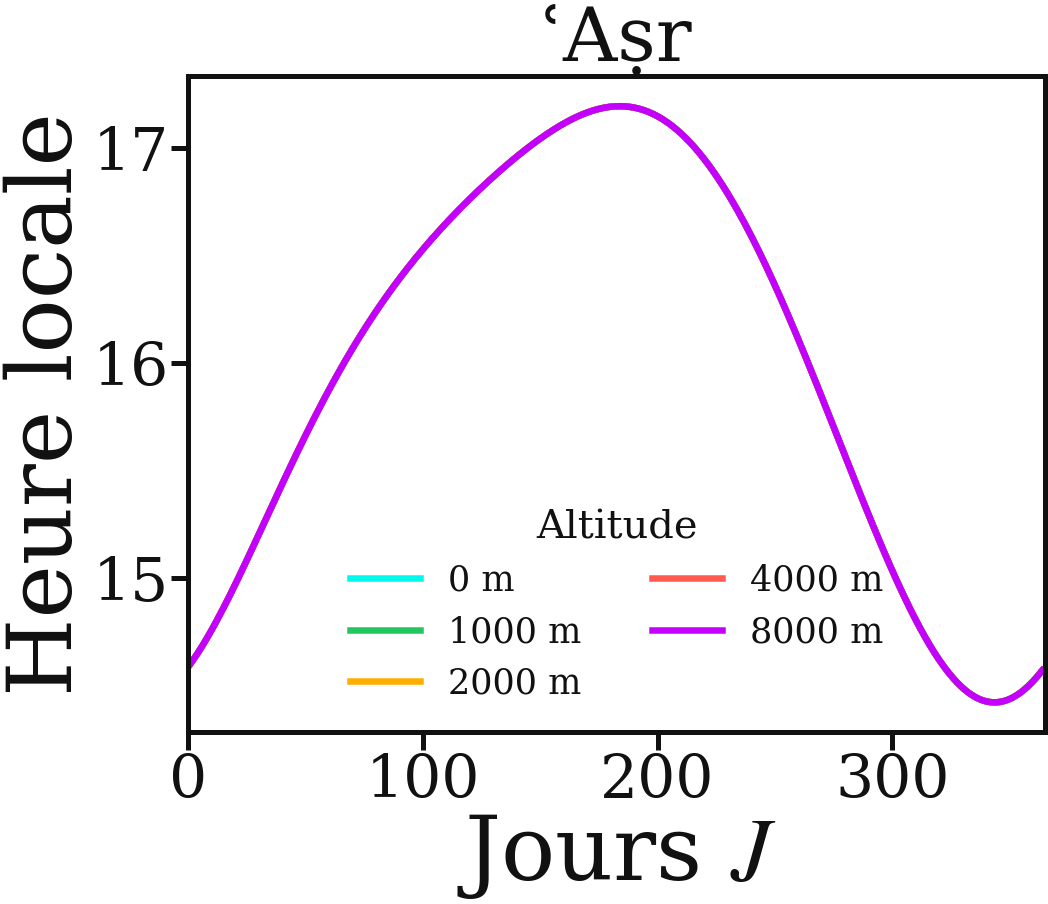
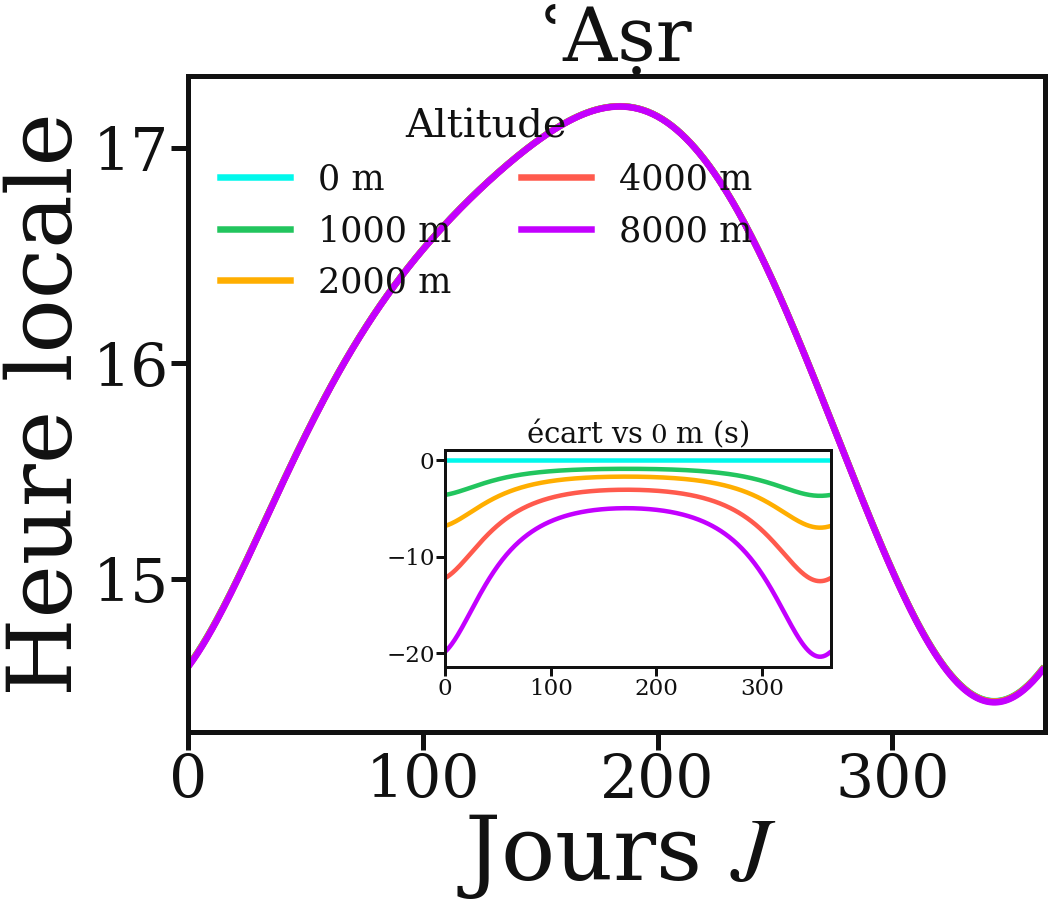
Graphe ʿAṣr vs altitude : réfraction liée à la pression(altitude) (méthode Özlem) + encart 'écart vs 0 m (s)' pour révéler l'effet de quelques secondes ; captions FR/EN

diff --git a/scripts/figures/refraction_prieres.py b/scripts/figures/refraction_prieres.py
@@ -53,15 +53,30 @@ def horizon_alt(alt):
     D  = 0.035333*math.sqrt(alt)
     return -(SD + R - 0.0024 + D)
 
-# ʿAṣr : altitude fixée par l'ombre (indépendante de l'altitude du lieu)
-asr_alt = np.degrees(np.arctan(1.0/(1.0 + np.tan(np.abs(phi - dl)))))
+# ʿAṣr corrigé de la réfraction (méthode Özlem 2016). La géométrie de l'ombre ne
+# dépend pas de l'altitude ; le SEUL canal est la réfraction ∝ pression, et la
+# pression chute avec l'altitude → on échelonne la réfraction par f(alt).
+ASR_T = 1.0   # facteur d'ombre (1 = majorité)
+
+def f_refrac(alt):
+    """Facteur d'échelle de la réfraction : pression barométrique / standard."""
+    P_alt = 1013.0 * math.exp(-alt / 8400.0)
+    return (P_alt / 1010.0) * (283.0 / (273.0 + T))
+
+def asr_corrected(alt):
+    """Altitude vraie corrigée du ʿAṣr (deg), réfraction échelonnée par l'altitude."""
+    f = f_refrac(alt)
+    Z  = 90.0 - np.degrees(np.abs(phi - dl))                         # hauteur vraie au midi
+    Zp = Z + f * 0.017 / np.tan(np.radians(Z + 10.3/(Z + 5.11)))     # apparente (Sæmundsson)
+    Ap = np.degrees(np.arctan(1.0 / (1.0/np.tan(np.radians(Zp)) + ASR_T)))  # ʿAṣr apparent
+    return Ap - f * (1.0/np.tan(np.radians(Ap + 7.31/(Ap + 4.4)))) / 60.0    # vrai (Bennett)
 
 def times(prayer, alt):
     if prayer == "Chourouq":
         return dhuhr - H_for(horizon_alt(alt))/15.0
     if prayer == "Maghrib":
         return dhuhr + H_for(horizon_alt(alt))/15.0
-    return dhuhr + H_for(asr_alt)/15.0      # ʿAṣr (ne dépend pas de alt)
+    return dhuhr + H_for(asr_corrected(alt))/15.0      # ʿAṣr (réfraction ∝ pression(alt))
 
 TITRES = {"Chourouq": "Chourouq (lever)", "Maghrib": "Maghrib (coucher)", "Asr": "ʿAṣr"}
 COLS   = ["#01f8ec", "#22c55e", "#ffae00", "#ff5a4d", "#c300ff"]
@@ -84,7 +99,23 @@ def make(prayer, dark):
     ax.set_ylabel(r"Heure locale")
     ax.set_xlim(0, 365)
     ax.set_title(TITRES[prayer], fontsize=150, color=fg, pad=30)
-    ax.legend(loc="best", frameon=False, fontsize=70, ncol=2, title="Altitude", title_fontsize=80)
+    loc = "upper left" if prayer == "Asr" else "best"
+    ax.legend(loc=loc, frameon=False, fontsize=70, ncol=2, title="Altitude", title_fontsize=80)
+
+    # ʿAṣr : l'effet de l'altitude n'est que de quelques secondes → encart de l'écart
+    # (t(alt) − t(0 m), en secondes) qui isole proprement l'effet sur l'année.
+    if prayer == "Asr":
+        ref = times("Asr", 0)
+        axin = ax.inset_axes([0.30, 0.10, 0.45, 0.33])
+        for alt, col in zip(ALTITUDES, COLS):
+            axin.plot(N, (times("Asr", alt) - ref) * 3600.0, color=col, lw=9)
+        axin.set_xlim(0, 365)
+        axin.set_facecolor("none")
+        for sp in axin.spines.values():
+            sp.set_edgecolor(fg); sp.set_linewidth(6)
+        axin.tick_params(colors=fg, labelsize=46, length=18, width=6)
+        axin.set_title(r"écart vs $0$ m (s)", color=fg, fontsize=58, pad=10)
+
     suffix = "dark" if dark else "light"
     fig.savefig(f"../../public/tawqit/refraction_{prayer.lower()}_{suffix}.png",
                 dpi=36, bbox_inches="tight", transparent=True)

diff --git a/src/content/projects/tawqit.fr.md b/src/content/projects/tawqit.fr.md
@@ -664,14 +664,17 @@ horaire au fil de l'année, à Roubaix ($50{,}7^\circ$ N) :
 
 *Horaire pour cinq altitudes du lieu ($0$ à $8000$ m). Plus on est haut, plus
 l'horizon s'abaisse : le *Maghrib* est **retardé** et le *Chourouq* **avancé** de
-plusieurs minutes en montagne. L'*ʿAṣr*, fixé par la longueur de l'ombre et non
-par l'horizon, n'est **pas affecté** — les cinq courbes se superposent.*
+plusieurs minutes en montagne. L'*ʿAṣr*, fixé par l'ombre et non par l'horizon, est
+quasi insensible : les courbes se confondent à l'échelle de l'heure — seule la
+réfraction (∝ pression, donc ∝ altitude) introduit un écart de quelques
+**secondes**, visible dans l'encart.*
 
 - **Maghrib & Chourouq** — le Soleil frôle l'horizon : l'altitude du lieu
   **abaisse l'horizon** et **décale l'horaire de plusieurs minutes** — le
   *Maghrib* est retardé, le *Chourouq* avancé, d'autant plus qu'on monte haut.
 - **ʿAṣr** — son heure est fixée par la longueur de l'**ombre**, pas par
-  l'horizon : l'altitude n'y change **rien** — toutes les courbes se confondent.
+  l'horizon : l'altitude ne joue **qu'au travers de la réfraction** (∝ pression),
+  pour quelques secondes seulement (encart) — négligeable en pratique.
 - **Fajr & ʿIshāʾ** — définis par un **angle de dépression** choisi ($18^\circ$,
   etc.), ils intègrent déjà implicitement les conditions d'observation.
 

diff --git a/src/content/projects/tawqit.en.md b/src/content/projects/tawqit.en.md
@@ -642,14 +642,16 @@ year, at Roubaix ($50.7^\circ$ N):
 
 *Time for five site elevations ($0$ to $8000$ m). The higher you stand, the lower
 the horizon drops: *Maghrib* is **delayed** and *Shurūq* **advanced** by several
-minutes in the mountains. *ʿAṣr*, set by the shadow length and not by the horizon,
-is **unaffected** — the five curves overlap.*
+minutes in the mountains. *ʿAṣr*, set by the shadow and not by the horizon, is
+nearly insensitive: the curves coincide at the hour scale — only refraction
+(∝ pressure, hence ∝ altitude) adds a few-**second** shift, shown in the inset.*
 
 - **Maghrib & Shurūq** — the Sun grazes the horizon: the site's elevation
   **lowers the horizon** and **shifts the time by several minutes** — *Maghrib*
   delayed, sunrise advanced, more so the higher you go.
 - **ʿAṣr** — its time is set by the **shadow** length, not by the horizon:
-  elevation changes **nothing** — all curves coincide.
+  elevation only acts **through refraction** (∝ pressure), for a few seconds
+  (inset) — negligible in practice.
 - **Fajr & ʿIshāʾ** — defined by a chosen **depression angle** ($18^\circ$, etc.),
   they already implicitly fold in the observation conditions.
 